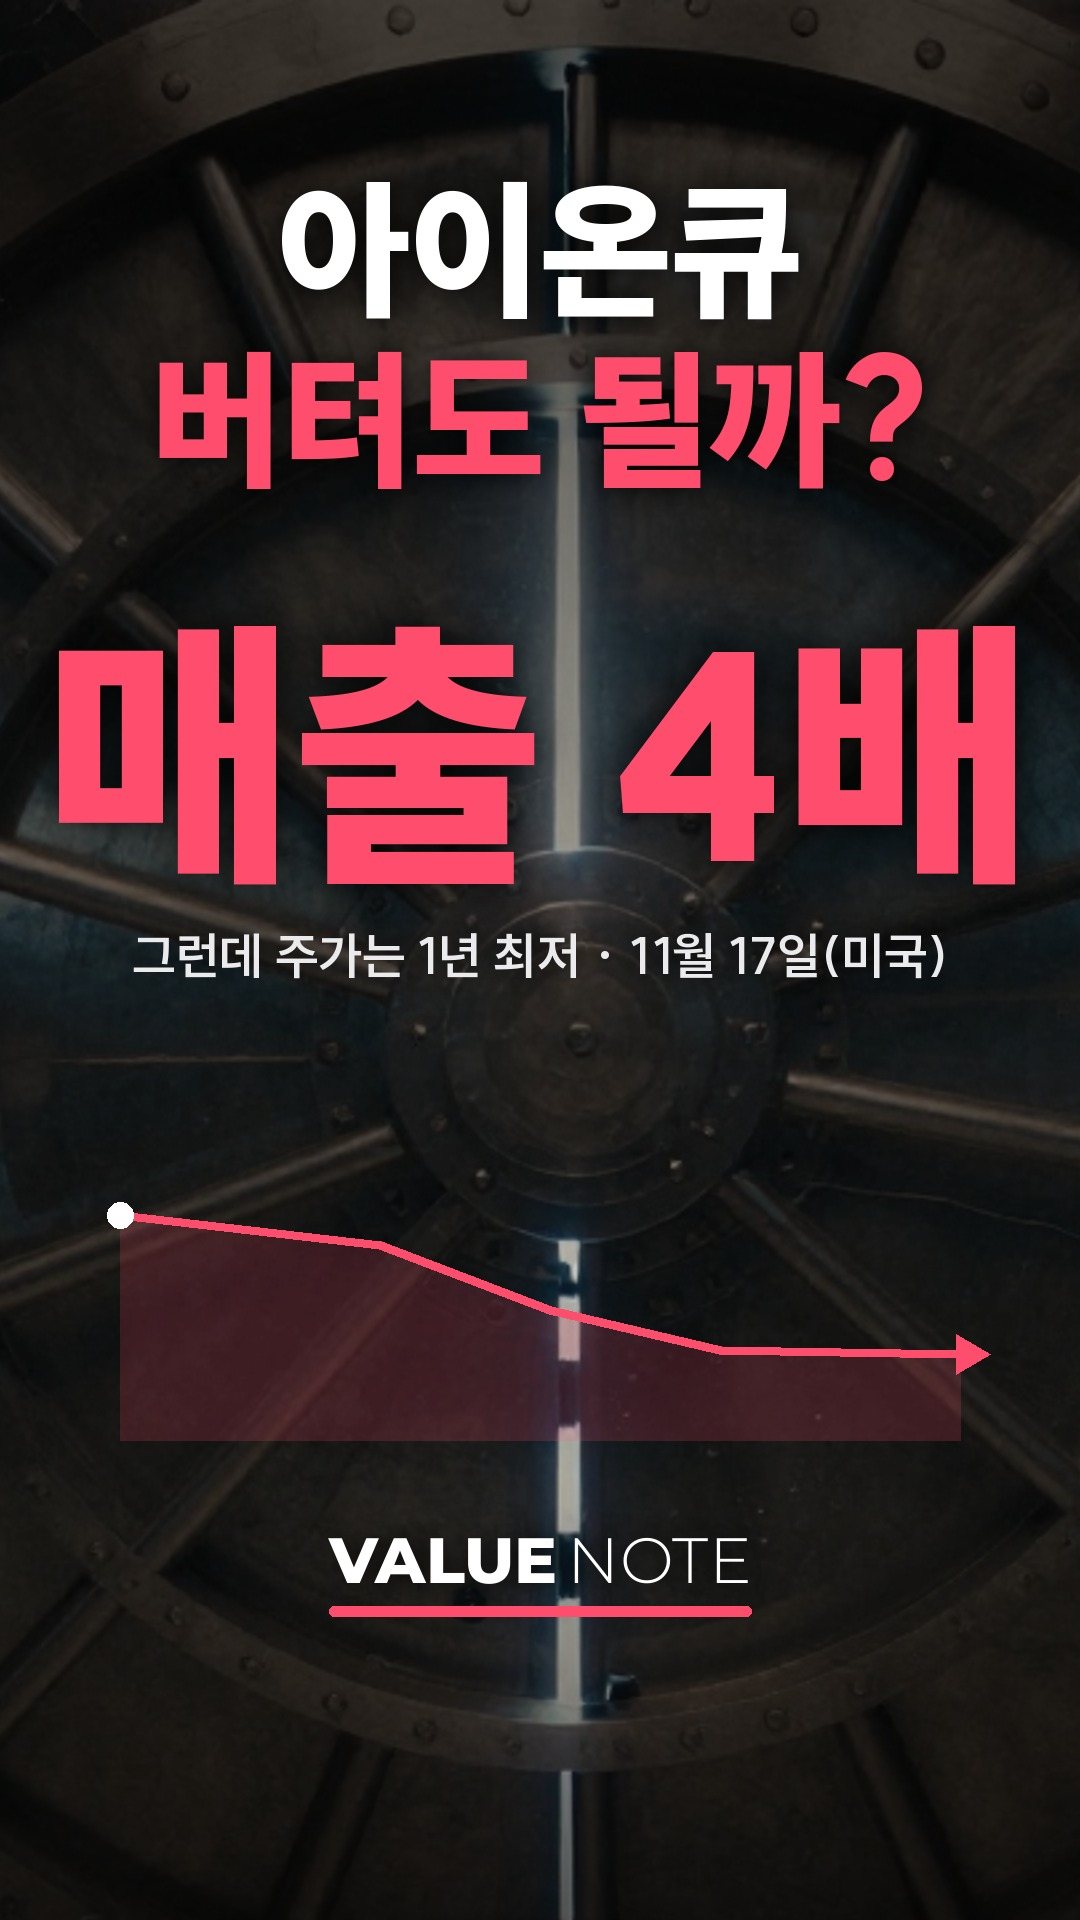
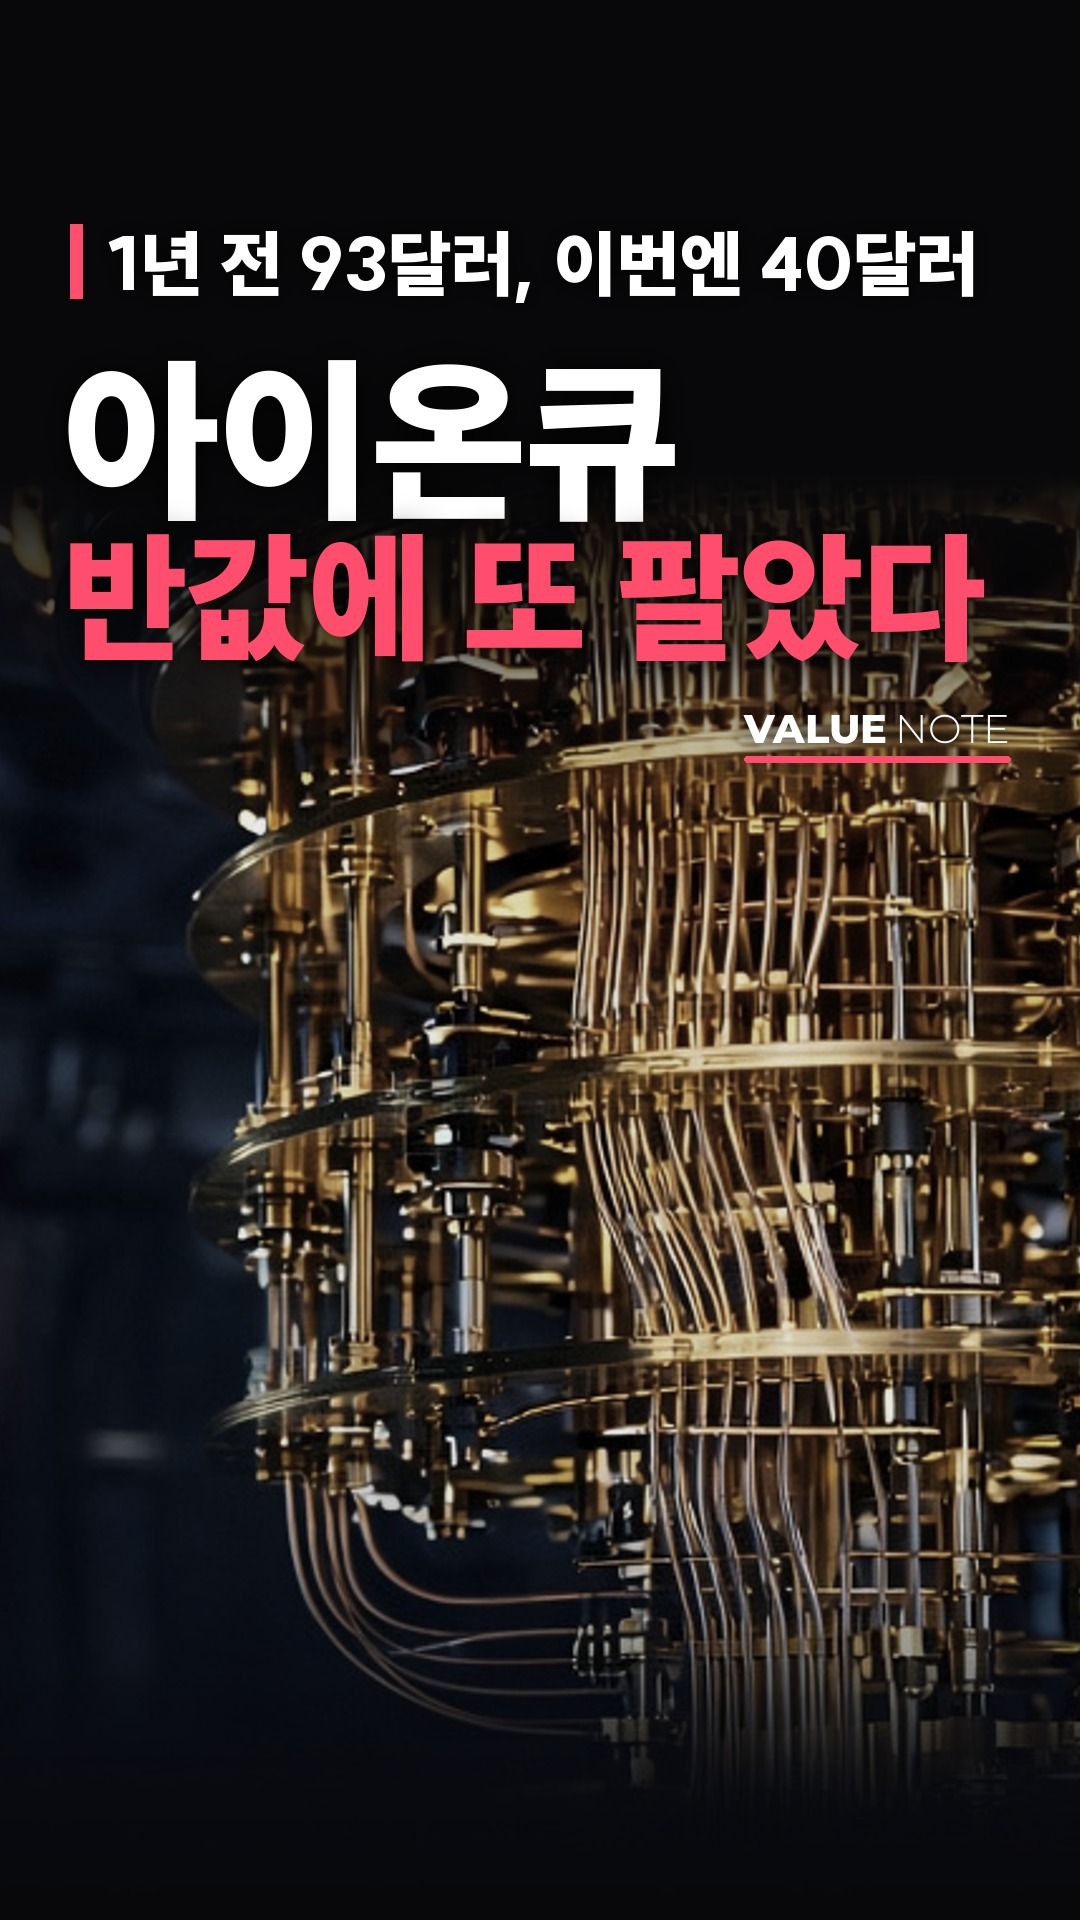
쇼츠 표지 v4(제목 위·첫 줄 크게·셋째 줄 없음): 버핏·아이온큐(반값에 또 팔았다)·삼성전자(빅쇼트의 메모리 공매도?)
Claude-Session: https://claude.ai/code/session_01KaYReHBjpBU32vuLAbCbMK

diff --git a/scripts/reels/cover_v4.py b/scripts/reels/cover_v4.py
@@ -1,0 +1,36 @@
+# 쇼츠 표지 v4 (11/22 18:51 대표: 첫 줄 더 크게, 셋째 줄 없앰, 제목은 위로 — 쇼츠 화면 위·아래 가림 여백 고려)
+import numpy as np
+from PIL import Image, ImageDraw, ImageFilter, ImageFont
+F='/tmp/hj/scripts/reels/fonts/'; W,H=1080,1920; PINK=(255,77,109); WH=(255,255,255)
+def S(w,s): return ImageFont.truetype(F+f'SUIT-{w}.ttf',s)
+def M(w,s): return ImageFont.truetype(F+f'Montserrat-{w}.ttf',s)
+def fit(w,t,s,mx):
+    while S(w,s).getlength(t)>mx: s-=4
+    return S(w,s)
+def sh(img,xy,t,f,fill,anchor='ls',blur=12,a=200):
+    L=Image.new('RGBA',img.size,(0,0,0,0)); ImageDraw.Draw(L).text(xy,t,font=f,fill=(0,0,0,a),anchor=anchor)
+    img.alpha_composite(L.filter(ImageFilter.GaussianBlur(blur))); ImageDraw.Draw(img).text(xy,t,font=f,fill=fill,anchor=anchor)
+def make(sp,out):
+    py=sp.get('py',560); ph=Image.open(sp['photo']).convert('RGB'); hh=H-py
+    s=max(W/ph.width,hh*sp.get('zoom',1)/ph.height); ph=ph.resize((int(ph.width*s)+1,int(ph.height*s)+1))
+    ox=int((ph.width-W)*sp.get('fx',.5)); oy=int(max(ph.height-hh,0)*sp.get('fy',0)); ph=ph.crop((ox,oy,ox+W,oy+min(hh,ph.height)))
+    a=np.asarray(ph,np.float32); g=a.mean(2,keepdims=True); a=a*.55+g*.45; ph=Image.fromarray(np.clip(a*.92,0,255).astype(np.uint8))
+    m=np.full((ph.height,W),255,np.uint8); ft=320; m[:ft]=(np.linspace(0,255,ft)[:,None]).astype(np.uint8)
+    fb=min(260,ph.height); m[-fb:]=np.minimum(m[-fb:],(np.linspace(255,0,fb)[:,None]).astype(np.uint8))
+    bg=Image.new('RGB',(W,H),(8,8,10)); bg.paste(ph,(0,py),Image.fromarray(m)); img=bg.convert('RGBA'); d=ImageDraw.Draw(img)
+    X=70; mx=W-2*X; y=290   # 위 190px 쇼츠 아이콘 가림 → 그 아래부터
+    fk=fit('Heavy',sp['kicker'],84,mx-34); d.rectangle([X,y-66,X+12,y+8],fill=PINK); sh(img,(X+36,y),sp['kicker'],fk,WH)
+    y+=34
+    for t,col in sp['rows']:
+        f=fit('Heavy',t,sp.get('size',176),mx); y+=int(f.size*1.03); sh(img,(X-6,y),t,f,col,blur=16,a=220)
+    fb2,fl=M('ExtraBold',40),M('Light',40); lw=fb2.getlength('VALUE')+fl.getlength('NOTE')+8; lx=W-X-lw; ly=y+80
+    sh(img,(lx,ly),'VALUE',fb2,WH,'lm'); sh(img,(lx+fb2.getlength('VALUE')+8,ly),'NOTE',fl,WH,'lm'); d.rounded_rectangle([lx,ly+27,lx+lw,ly+33],3,fill=PINK)
+    img.convert('RGB').save(out,quality=92); return out
+L='/tmp/hj/scripts/blog/media/lib/'
+SP={
+ 'Y261121a':{'photo':L+'il_L261121i_thumb_q.jpeg','fx':.62,'zoom':1.25,'py':470,'kicker':'1년 전 93달러, 이번엔 40달러','rows':[('아이온큐',WH),('반값에 또 팔았다',PINK)]},
+ 'Y261122b':{'photo':L+'commons_buffett_2.jpg','fx':.5,'kicker':'나스닥 폭락장에 혼자 신고가','rows':[('워런 버핏',WH),('또 혼자 웃었다',PINK)]},
+ 'Y261121s':{'photo':'/tmp/pj/mem/th/burry_samsung.png','fx':.55,'zoom':.72,'py':520,'kicker':'삼성전자 -7%, 개미는 1.6조 샀다','rows':[('빅쇼트의',WH),('메모리 공매도?',PINK)]},
+}
+if __name__=='__main__':
+    for k,v in SP.items(): make(v,f'/tmp/pj/scv/{k}_v4.jpg')
